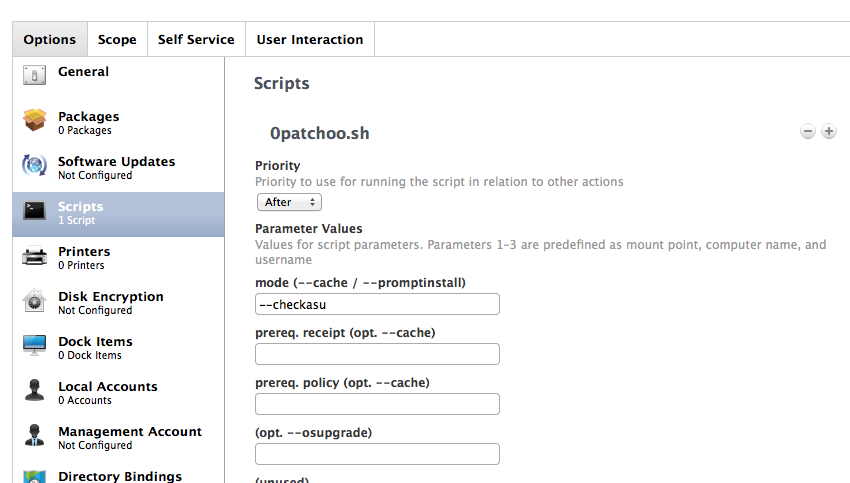
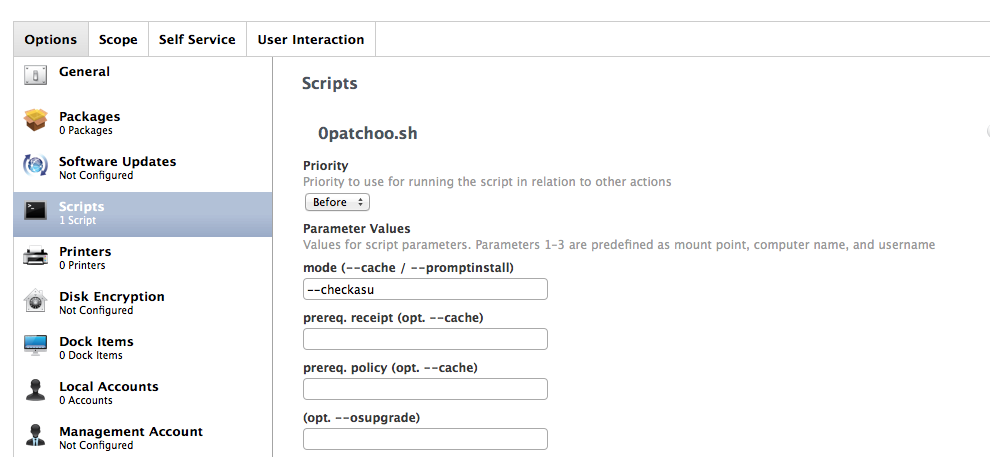
fixed blank pkg info handling. updated docs re: uploading pkgs into Casper. fixed screenshots in core policies.

diff --git a/docs/setup_core_policies.md b/docs/setup_core_policies.md
@@ -221,6 +221,8 @@ ___
 
 These are client facing Self Service Policies, and as such should be named a categorised *nicely*. I'd recommend an Updates category.
 
+Icons are included [here](../extras/ss icons)
+
 ### [Check for New Software](id:ssCheck)
 
 #### General tab
@@ -283,11 +285,11 @@ These are client facing Self Service Policies, and as such should be named a cat
 * Description: `This will install all pending software installations.`
 * Feature the policy on the main page: `yes` (up to you).
 
-(the nice thinf about this, if you scope it as below, it will only popup on user's Self Service.app when installations are available)
-
 ![patchoo installss ss](images/policy_installss_ss.png)
 
 #### Scope tab
+
+(By scoping to the `patchooInstallsWaiting` this policy will only popup on user's Self Service.app when installations are available)
 
 * Computer Group: `patchooInstallsWaiting`
 

diff --git a/README.md b/README.md
@@ -16,7 +16,7 @@ A lot of people have built different solutions on JAMFnation, but I think patcho
 
 ### Why not just use munki? ###
 
-That's certainly an option, and many people do use munki and Casper. It does mean administering another tool and there is no formal training or certification track for munki, which is important to some organisations. I hope some of these methods one day become part of Casper.
+That's certainly an option, and many people do use munki and Casper. The tools are designed differently and it's  hard to draw parallels between their workflows. It would be great to leverage munki, but currently it is difficult to integrate what's exposed via the JSS API and munki.
 
 ### Patchoo isn't just a script... ###
   

diff --git a/docs/_index.md b/docs/_index.md
@@ -23,6 +23,7 @@ Documentation
 	* [Setup Core Policies](setup_core_policies.md)
 * [Deploying Apple Software Updates](deploying_apple_software_updates.md)
 * [Deploying Software via Casper Policies](deploying_software_via_policy.md)
+	* [Uploading your pkg into Casper](upload_pkg.md) 
 	* [Scoping Software Deployment Smart Groups](scoping_software_deployment_smart_groups.md)
 	* [Deploying Standalone or Drag and Drop Installers](deploying_standalone_Installers.md)
 	* [Deploying Chained Incremental Patches](deploying_chained_incremental_patches.md)

diff --git a/docs/upload_pkg.md b/docs/upload_pkg.md
@@ -1,0 +1,11 @@
+Uploading your pkg into Casper
+==============================
+
+Drag and drop your pkgs into Casper Admin as you usually do. The only difference is that you should be adding a *nice name* for the patchoo GUI.
+
+Whatever name you enter into **Info** will be presented to the user. If you don't fill the info metadata, patchoo will use the pkgname, less the extension. eg. `VLC-2.1.4`
+
+
+![pkginfo jss](images/pkginfo_jss.png)
+
+![pkginfo casperadmin](images/pkginfo_casperadmin.png)
